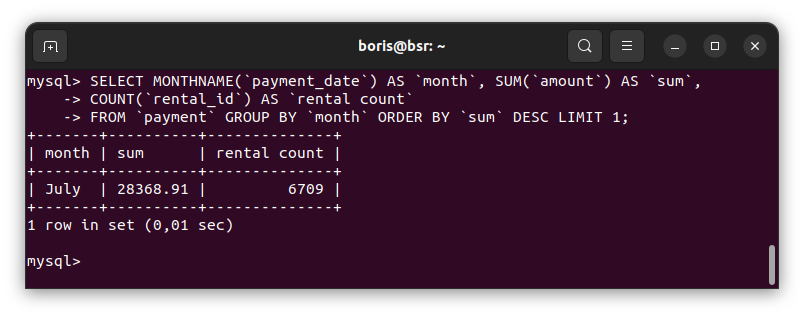
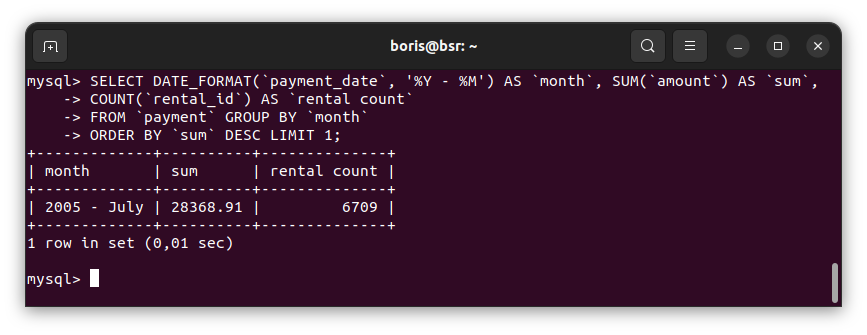
Home work 12-04 SQL. Part 2. Task 3 - сorrection

diff --git a/hw-12.04_SQL_part_2/README.md b/hw-12.04_SQL_part_2/README.md
@@ -49,9 +49,10 @@ SELECT COUNT(`film_id`) FROM `film` WHERE `length` > (SELECT AVG(`length`) FROM 
 ### Ответ:
 
 ```SQL
-SELECT MONTHNAME(`payment_date`) AS `month`, SUM(`amount`) AS `sum`, 
+SELECT DATE_FORMAT(`payment_date`, '%Y - %M') AS `month`, SUM(`amount`) AS `sum`,
 COUNT(`rental_id`) AS `rental count`
-FROM `payment` GROUP BY `month` ORDER BY `sum` DESC LIMIT 1;
+FROM `payment` GROUP BY `month` 
+ORDER BY `sum` DESC LIMIT 1;
 ```
 
 ![SQL-запрос](./img/c1.png)
